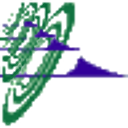
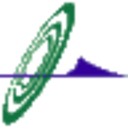
more images

diff --git a/chrome/background.js b/chrome/background.js
@@ -58,7 +58,7 @@ function checkTimesheet(callback) {
       animateIconInterval = null;
     }
     chrome.browserAction.setBadgeText({text: ''});
-    chrome.browserAction.setIcon({path: "unanet.png"});
+    chrome.browserAction.setIcon({path: "unanet128.png"});
   }
 
   function setBadgeToError() {
@@ -75,7 +75,7 @@ function checkTimesheet(callback) {
       chrome.browserAction.setIcon({path: "unanetError128.png"});
       animateIconState = 1;
     } else {
-      chrome.browserAction.setIcon({path: "unanet.png"});
+      chrome.browserAction.setIcon({path: "unanet128.png"});
       animateIconState = 0;
     }
 
